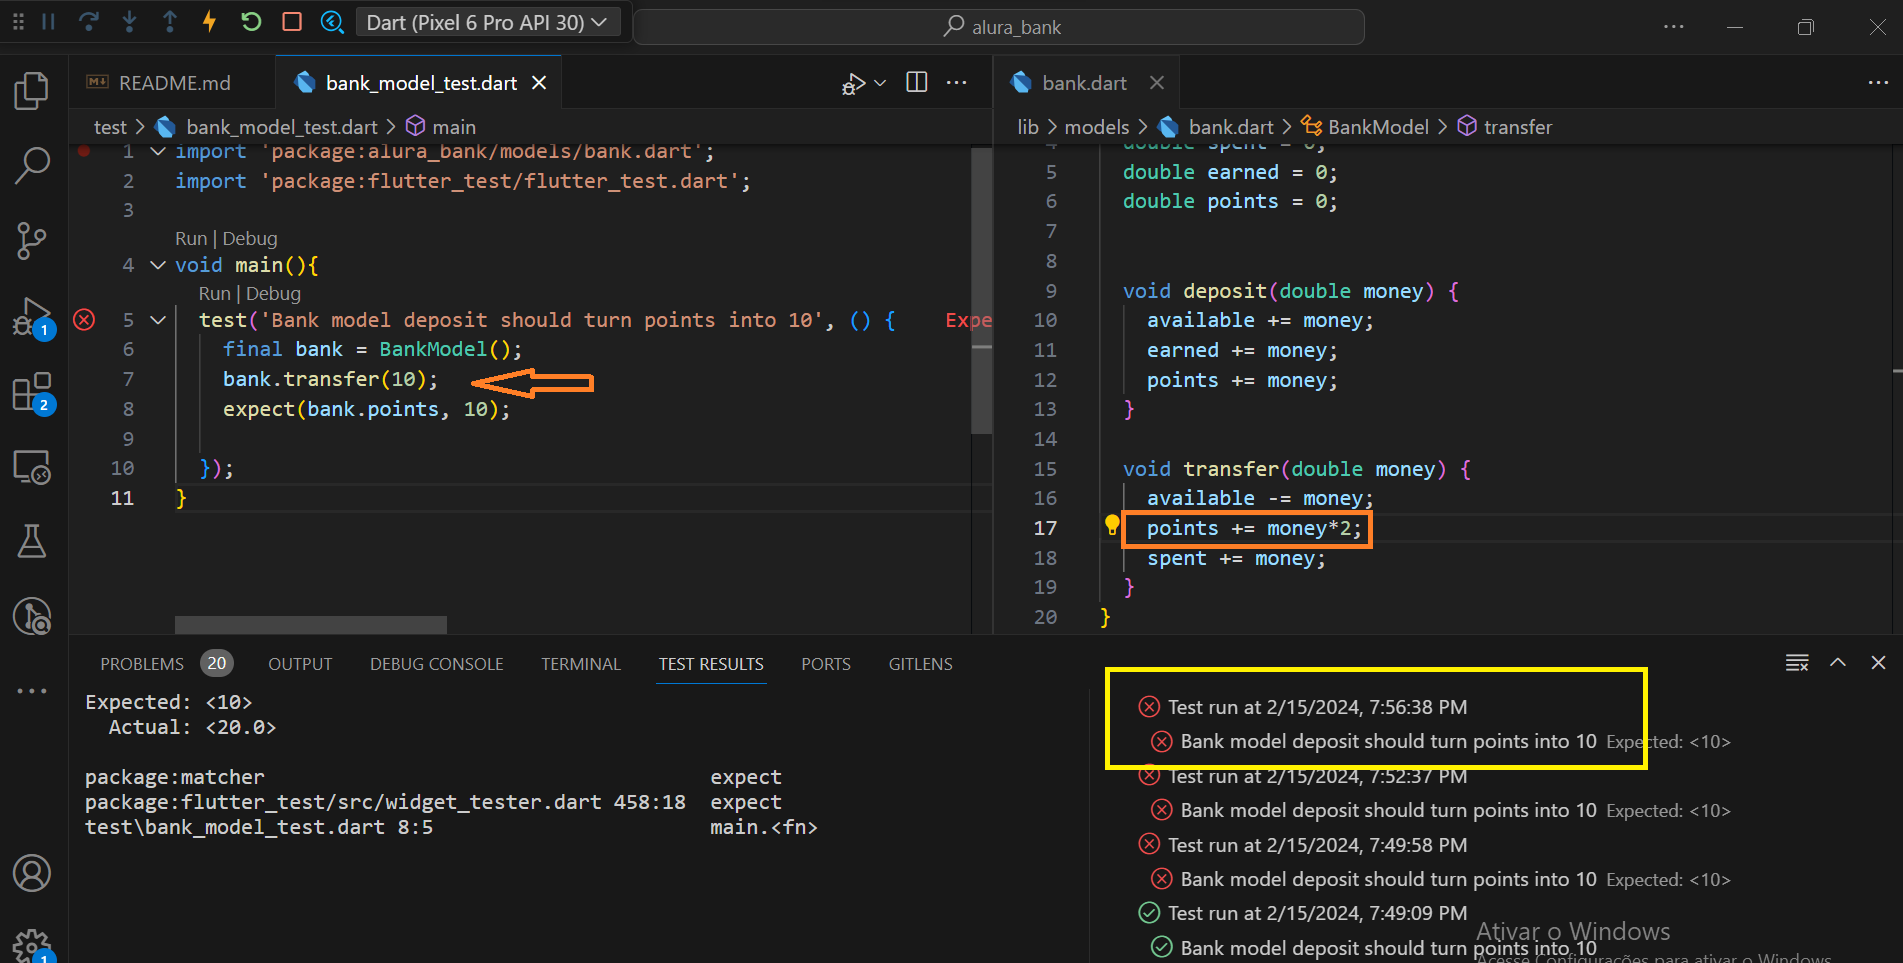
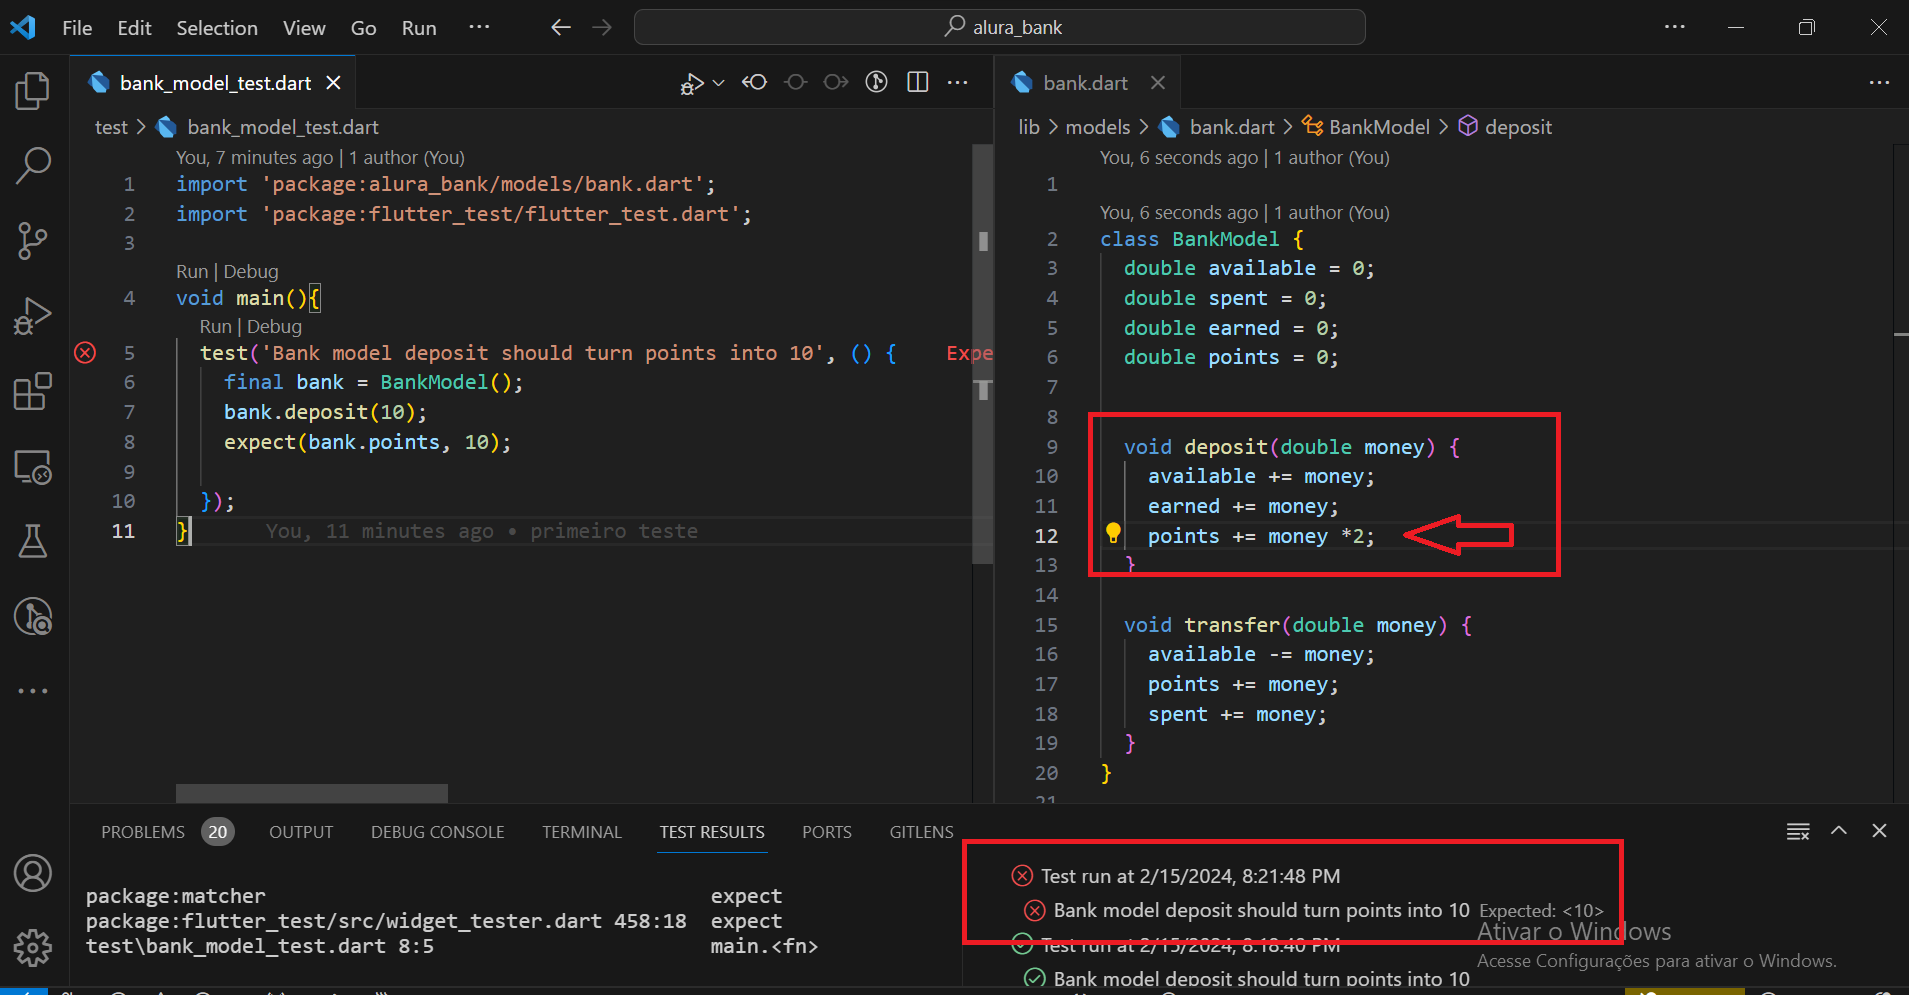
read-me

diff --git a/alura_bank/lib/models/bank.dart b/alura_bank/lib/models/bank.dart
@@ -9,12 +9,12 @@ class BankModel {
   void deposit(double money) {
     available += money;
     earned += money;
-    points += money;
+    points += money *2;
   }
 
   void transfer(double money) {
     available -= money;
-    points += money*2;
+    points += money;
     spent += money;
   }
 }

diff --git a/alura_bank/test/bank_model_test.dart b/alura_bank/test/bank_model_test.dart
@@ -4,7 +4,7 @@ import 'package:flutter_test/flutter_test.dart';
 void main(){
   test('Bank model deposit should turn points into 10', () {
     final bank = BankModel();
-    bank.transfer(10);
+    bank.deposit(10);
     expect(bank.points, 10);
      
   });

diff --git a/README.md b/README.md
@@ -3,11 +3,6 @@
 Este projeto é fruto do curso de 'Flutter : Aplicando testes de unidade de widgets e mocks da plataforma ALURA
 
 
-
-
-<!--<img src="info/projetoInicial.png" alt="projeto inicial" width="25%"/>-->
-
-
 <table style="width: 100%; border-collapse: collapse;" border="0">
   <tr>
     <td style="border: none;"> <img src="info/projetoInicial.png" alt="ativando menu" style="width: 100%; display: block;"/></td>
@@ -24,16 +19,18 @@ Este projeto é fruto do curso de 'Flutter : Aplicando testes de unidade de widg
 
   ## Primerio Teste
 
-   Nesse teste foi verificado se o valor recebido pela propriedade 'points' do metodo 'transfer' da classe BankModel é identico a entrada. Nesse caso o valor de entrada foi de 10 e o valor da esperdo pela varivél tambem é 10.
+   Nesse teste foi verificado se o valor recebido pela propriedade 'points' do metodo 'deposit' da classe BankModel é identico a entrada. Nesse caso o valor de entrada foi de 10 e o valor da esperdo pela varivél tambem é 10.
 
    No segundo caso foi feita uma simulação de alteração de codigo o que gerou o erro.
 
 
 <table style="width: 100%; border-collapse: collapse;" border="0">
   <tr?>
-    <td style="border: none;"> <img src="info/primeiro teste.png" alt="ativando menu" style="width: 100%; display: block;"/></td>
+    <td style="border: none;"> <img src="info/criando test.png" alt="criando teste" style="width: 100%; display: block;"/></td>
+    </tr>
+    <td style="border: none;"> <img src="info/primeiro teste.png" alt="primeiro teste sucesso" style="width: 100%; display: block;"/></td>
     </tr>
     <tr> 
-     <td style="border: none;"> <img src="info/primeiro teste forcando erro.png" alt="ativando menu" style="width: 100%; display: block;"/></td>
+     <td style="border: none;"> <img src="info/primeiro teste forcando erro.png" alt="primeiro teste erro" style="width: 100%; display: block;"/></td>
   </tr>
 </table>
